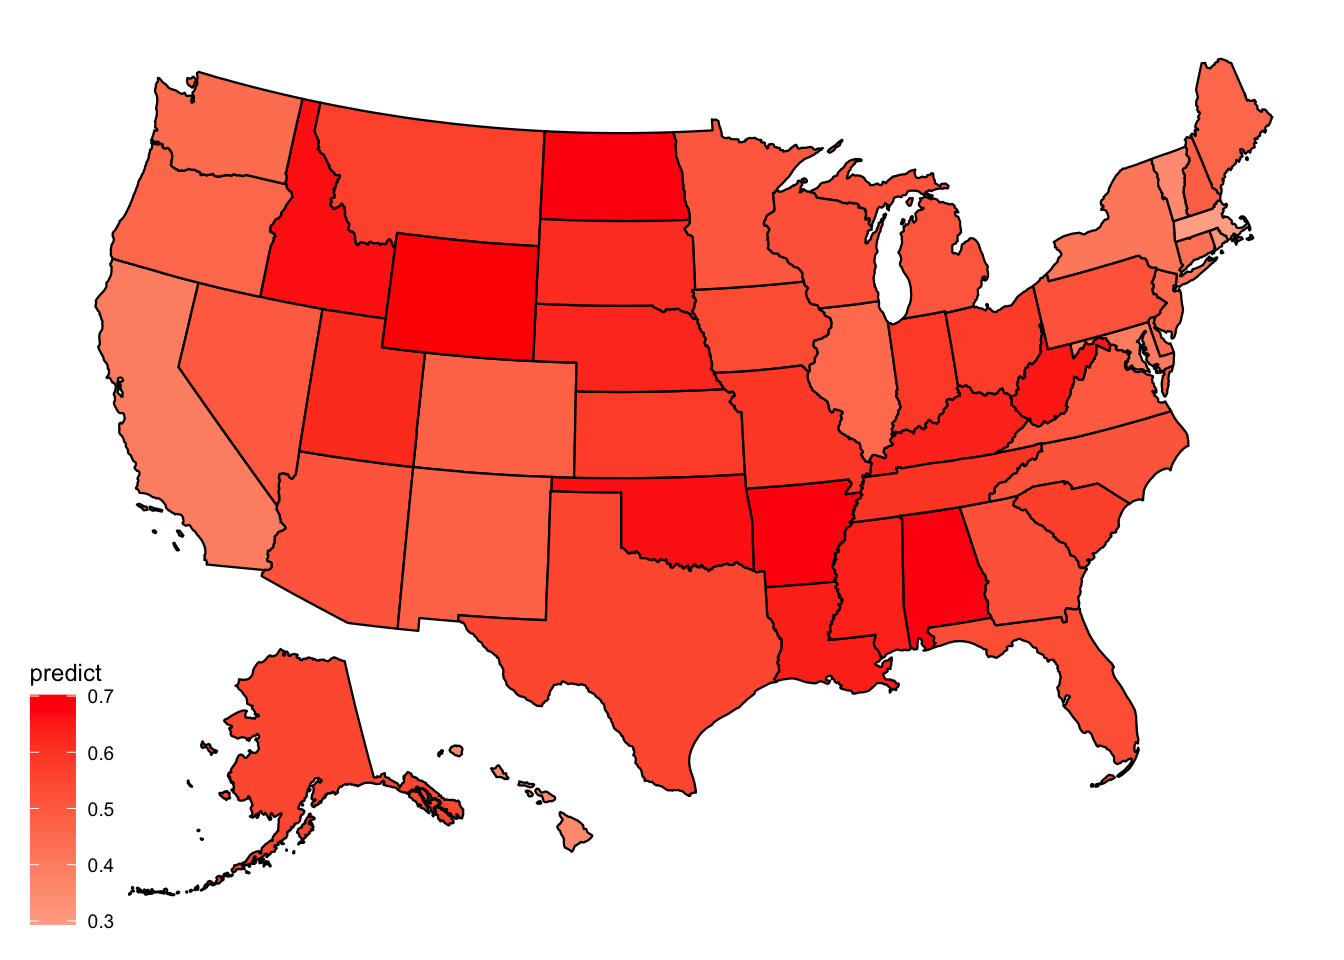
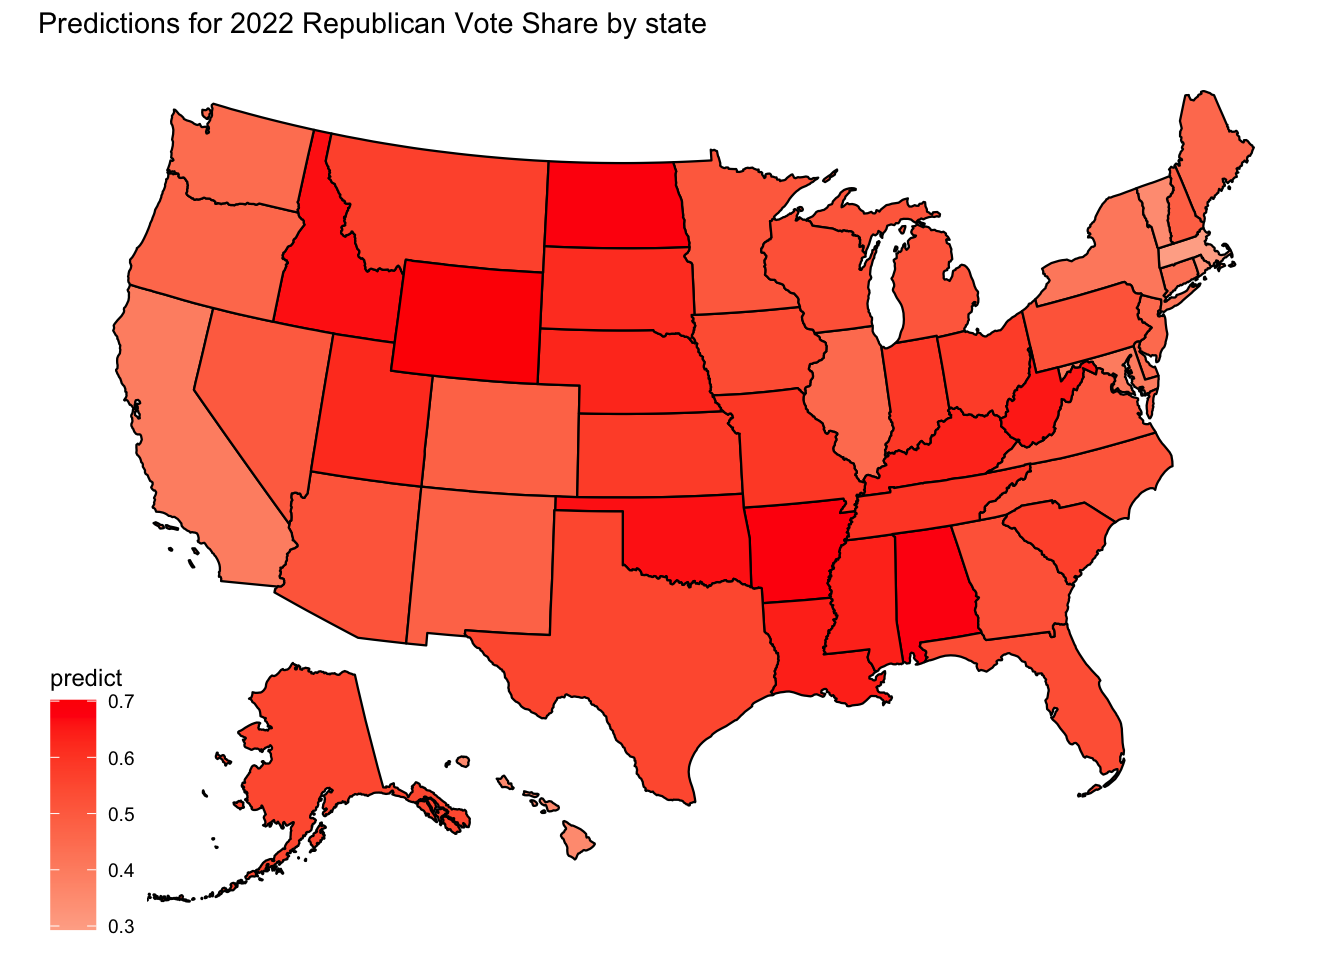
text

diff --git a/public/post/2022-09-15-blog-post-2-economy/index.html b/public/post/2022-09-15-blog-post-2-economy/index.html
@@ -65,25 +65,26 @@
 
 
 <p><em>Intro</em></p>
-<p>In this blog post, I am examining how unemployment rates and affect voting patterns
-for House races in the United States.</p>
+<p>In this blog post (Extension #3), I am examining how unemployment rates and labor force
+participation rates affect voting patterns for House races in the United States at the state level.
+I chose to model my outcome variable as the popular vote for House races by state,
+as opposed to seat share, because I thought this measure captured more of the nuance behind
+each race. However, that would be equally interesting and worthwhile to study.</p>
 <p><em>Data</em></p>
-<p>I use three datasets: Unemployment by state, popular voting by house (state level), and a national
-dataset with presidential incumbent information.
-National: unemployment nationally and voting by house nationally</p>
+<p>For my local dataset, I join three datasets: Economic data by by state, popular voting by house (state level), and a national
+dataset with presidential incumbent information. I restricted the economic data to just
+be in the 3rd quarter so it was the most recent for elections.
+To compare local to national data, I built a national dataset of nationwide employment
+and house voting.</p>
 <p><em>Exploratory Plots</em>
 Using 595 data points (every house election until this point), I look at trends
 for examining the state-wide Republican voteshare by differences in labor force
 participation rate or unemployment rates.</p>
-<pre><code>## `geom_smooth()` using method = &#39;loess&#39; and formula &#39;y ~ x&#39;</code></pre>
 <pre><code>## Warning: Removed 50 rows containing non-finite values (stat_smooth).</code></pre>
 <pre><code>## Warning: Removed 50 rows containing missing values (geom_point).</code></pre>
-<pre><code>## `geom_smooth()` using method = &#39;loess&#39; and formula &#39;y ~ x&#39;</code></pre>
 <p><img src="http://example.org/post/2022-09-15-blog-post-2-economy/index_files/figure-html/Exploratory%20plots-1.png" width="672" /></p>
-<pre><code>## `geom_smooth()` using method = &#39;loess&#39; and formula &#39;y ~ x&#39;</code></pre>
 <pre><code>## Warning: Removed 50 rows containing non-finite values (stat_smooth).
 ## Removed 50 rows containing missing values (geom_point).</code></pre>
-<pre><code>## `geom_smooth()` using method = &#39;loess&#39; and formula &#39;y ~ x&#39;</code></pre>
 <p><img src="http://example.org/post/2022-09-15-blog-post-2-economy/index_files/figure-html/Exploratory%20plots-2.png" width="672" />
 As these graphs show, there is not a obvious trend in any direction between these two
 economic measures and Republican vote share by state.
@@ -182,7 +183,12 @@ my predictions and the actual Republican vote shares in all years before 2022
 my first model, although testing the other would also prove fruitful.</p>
 <p><img src="http://example.org/post/2022-09-15-blog-post-2-economy/index_files/figure-html/plots-1.png" width="672" /><img src="http://example.org/post/2022-09-15-blog-post-2-economy/index_files/figure-html/plots-2.png" width="672" /><img src="http://example.org/post/2022-09-15-blog-post-2-economy/index_files/figure-html/plots-3.png" width="672" /></p>
 <pre><code>## [1] 0.005078461 0.013207290 0.005334608 0.005145969 0.013270221 0.005325042</code></pre>
-<p>Additionally, the mean squared error was at 0.004 for this model.</p>
+<p>These plots above show the distributions of errors across party, year, and state.
+Fortunately, there does not appear to be a significant bias in my model’s errors.
+However, to fully analyze the modeltake much more time and research to fully ana</p>
+<p>Additionally, at the very bottom, I printed out the MSE for each local model. This shows
+that including the lagged Republican vote share significantly reduces error,
+however it may be susceptible to overfitting in the long term.</p>
 <div id="ohio-01-race" class="section level1">
 <h1>Ohio-01 Race</h1>
 <p>Finally, I looked at my congressional race- Ohio 01. Since this dataset is very small,
@@ -192,6 +198,7 @@ into the economic landscape and voting patterns in the district.</p>
 </div>
 <div id="predictions" class="section level1">
 <h1>2022 Predictions</h1>
+<p><img src="http://example.org/post/2022-09-15-blog-post-2-economy/index_files/figure-html/predictions-1.png" width="672" /></p>
 </div>
 
 
@@ -209,7 +216,7 @@ into the economic landscape and voting patterns in the district.</p>
         		<footer>
 			
 			<span>
-			&copy; <time datetime="2022-09-19 06:15:17.909583 -0400 EDT m=&#43;0.193888001">2022</time> . Made with <a href='https://gohugo.io'>Hugo</a> using the <a href='https://github.com/EmielH/tale-hugo/'>Tale</a> theme.
+			&copy; <time datetime="2022-09-19 06:28:48.019851 -0400 EDT m=&#43;0.177495001">2022</time> . Made with <a href='https://gohugo.io'>Hugo</a> using the <a href='https://github.com/EmielH/tale-hugo/'>Tale</a> theme.
 			</span>
 		</footer>
 

diff --git a/content/post/2022-09-15-blog-post-2-economy/index.html b/content/post/2022-09-15-blog-post-2-economy/index.html
@@ -14,25 +14,26 @@ tags: []
 
 
 <p><em>Intro</em></p>
-<p>In this blog post, I am examining how unemployment rates and affect voting patterns
-for House races in the United States.</p>
+<p>In this blog post (Extension #3), I am examining how unemployment rates and labor force
+participation rates affect voting patterns for House races in the United States at the state level.
+I chose to model my outcome variable as the popular vote for House races by state,
+as opposed to seat share, because I thought this measure captured more of the nuance behind
+each race. However, that would be equally interesting and worthwhile to study.</p>
 <p><em>Data</em></p>
-<p>I use three datasets: Unemployment by state, popular voting by house (state level), and a national
-dataset with presidential incumbent information.
-National: unemployment nationally and voting by house nationally</p>
+<p>For my local dataset, I join three datasets: Economic data by by state, popular voting by house (state level), and a national
+dataset with presidential incumbent information. I restricted the economic data to just
+be in the 3rd quarter so it was the most recent for elections.
+To compare local to national data, I built a national dataset of nationwide employment
+and house voting.</p>
 <p><em>Exploratory Plots</em>
 Using 595 data points (every house election until this point), I look at trends
 for examining the state-wide Republican voteshare by differences in labor force
 participation rate or unemployment rates.</p>
-<pre><code>## `geom_smooth()` using method = &#39;loess&#39; and formula &#39;y ~ x&#39;</code></pre>
 <pre><code>## Warning: Removed 50 rows containing non-finite values (stat_smooth).</code></pre>
 <pre><code>## Warning: Removed 50 rows containing missing values (geom_point).</code></pre>
-<pre><code>## `geom_smooth()` using method = &#39;loess&#39; and formula &#39;y ~ x&#39;</code></pre>
 <p><img src="{{< blogdown/postref >}}index_files/figure-html/Exploratory%20plots-1.png" width="672" /></p>
-<pre><code>## `geom_smooth()` using method = &#39;loess&#39; and formula &#39;y ~ x&#39;</code></pre>
 <pre><code>## Warning: Removed 50 rows containing non-finite values (stat_smooth).
 ## Removed 50 rows containing missing values (geom_point).</code></pre>
-<pre><code>## `geom_smooth()` using method = &#39;loess&#39; and formula &#39;y ~ x&#39;</code></pre>
 <p><img src="{{< blogdown/postref >}}index_files/figure-html/Exploratory%20plots-2.png" width="672" />
 As these graphs show, there is not a obvious trend in any direction between these two
 economic measures and Republican vote share by state.
@@ -131,7 +132,12 @@ my predictions and the actual Republican vote shares in all years before 2022
 my first model, although testing the other would also prove fruitful.</p>
 <p><img src="{{< blogdown/postref >}}index_files/figure-html/plots-1.png" width="672" /><img src="{{< blogdown/postref >}}index_files/figure-html/plots-2.png" width="672" /><img src="{{< blogdown/postref >}}index_files/figure-html/plots-3.png" width="672" /></p>
 <pre><code>## [1] 0.005078461 0.013207290 0.005334608 0.005145969 0.013270221 0.005325042</code></pre>
-<p>Additionally, the mean squared error was at 0.004 for this model.</p>
+<p>These plots above show the distributions of errors across party, year, and state.
+Fortunately, there does not appear to be a significant bias in my model’s errors.
+However, to fully analyze the modeltake much more time and research to fully ana</p>
+<p>Additionally, at the very bottom, I printed out the MSE for each local model. This shows
+that including the lagged Republican vote share significantly reduces error,
+however it may be susceptible to overfitting in the long term.</p>
 <div id="ohio-01-race" class="section level1">
 <h1>Ohio-01 Race</h1>
 <p>Finally, I looked at my congressional race- Ohio 01. Since this dataset is very small,
@@ -141,4 +147,5 @@ into the economic landscape and voting patterns in the district.</p>
 </div>
 <div id="predictions" class="section level1">
 <h1>2022 Predictions</h1>
+<p><img src="{{< blogdown/postref >}}index_files/figure-html/predictions-1.png" width="672" /></p>
 </div>

diff --git a/public/post/2022-09-10-blog-post-1/index.html b/public/post/2022-09-10-blog-post-1/index.html
@@ -134,7 +134,7 @@ seat share, so this blog is more exploring trends than asserting exact ramificat
         		<footer>
 			
 			<span>
-			&copy; <time datetime="2022-09-19 06:15:17.899222 -0400 EDT m=&#43;0.183526460">2022</time> . Made with <a href='https://gohugo.io'>Hugo</a> using the <a href='https://github.com/EmielH/tale-hugo/'>Tale</a> theme.
+			&copy; <time datetime="2022-09-19 06:28:48.01937 -0400 EDT m=&#43;0.177014418">2022</time> . Made with <a href='https://gohugo.io'>Hugo</a> using the <a href='https://github.com/EmielH/tale-hugo/'>Tale</a> theme.
 			</span>
 		</footer>
 

diff --git a/public/categories/index.html b/public/categories/index.html
@@ -57,7 +57,7 @@
         		<footer>
 			
 			<span>
-			&copy; <time datetime="2022-09-19 06:15:17.880799 -0400 EDT m=&#43;0.165102918">2022</time> . Made with <a href='https://gohugo.io'>Hugo</a> using the <a href='https://github.com/EmielH/tale-hugo/'>Tale</a> theme.
+			&copy; <time datetime="2022-09-19 06:28:47.997869 -0400 EDT m=&#43;0.155512209">2022</time> . Made with <a href='https://gohugo.io'>Hugo</a> using the <a href='https://github.com/EmielH/tale-hugo/'>Tale</a> theme.
 			</span>
 		</footer>
 

diff --git a/public/index.html b/public/index.html
@@ -92,7 +92,7 @@
         		<footer>
 			
 			<span>
-			&copy; <time datetime="2022-09-19 06:15:17.895982 -0400 EDT m=&#43;0.180286793">2022</time> . Made with <a href='https://gohugo.io'>Hugo</a> using the <a href='https://github.com/EmielH/tale-hugo/'>Tale</a> theme.
+			&copy; <time datetime="2022-09-19 06:28:48.014679 -0400 EDT m=&#43;0.172322876">2022</time> . Made with <a href='https://gohugo.io'>Hugo</a> using the <a href='https://github.com/EmielH/tale-hugo/'>Tale</a> theme.
 			</span>
 		</footer>
 

diff --git a/public/post/index.html b/public/post/index.html
@@ -87,7 +87,7 @@
         		<footer>
 			
 			<span>
-			&copy; <time datetime="2022-09-19 06:15:17.895983 -0400 EDT m=&#43;0.180287001">2022</time> . Made with <a href='https://gohugo.io'>Hugo</a> using the <a href='https://github.com/EmielH/tale-hugo/'>Tale</a> theme.
+			&copy; <time datetime="2022-09-19 06:28:48.015157 -0400 EDT m=&#43;0.172801459">2022</time> . Made with <a href='https://gohugo.io'>Hugo</a> using the <a href='https://github.com/EmielH/tale-hugo/'>Tale</a> theme.
 			</span>
 		</footer>
 

diff --git a/public/tags/index.html b/public/tags/index.html
@@ -57,7 +57,7 @@
         		<footer>
 			
 			<span>
-			&copy; <time datetime="2022-09-19 06:15:17.881475 -0400 EDT m=&#43;0.165778418">2022</time> . Made with <a href='https://gohugo.io'>Hugo</a> using the <a href='https://github.com/EmielH/tale-hugo/'>Tale</a> theme.
+			&copy; <time datetime="2022-09-19 06:28:47.997847 -0400 EDT m=&#43;0.155490584">2022</time> . Made with <a href='https://gohugo.io'>Hugo</a> using the <a href='https://github.com/EmielH/tale-hugo/'>Tale</a> theme.
 			</span>
 		</footer>
 
